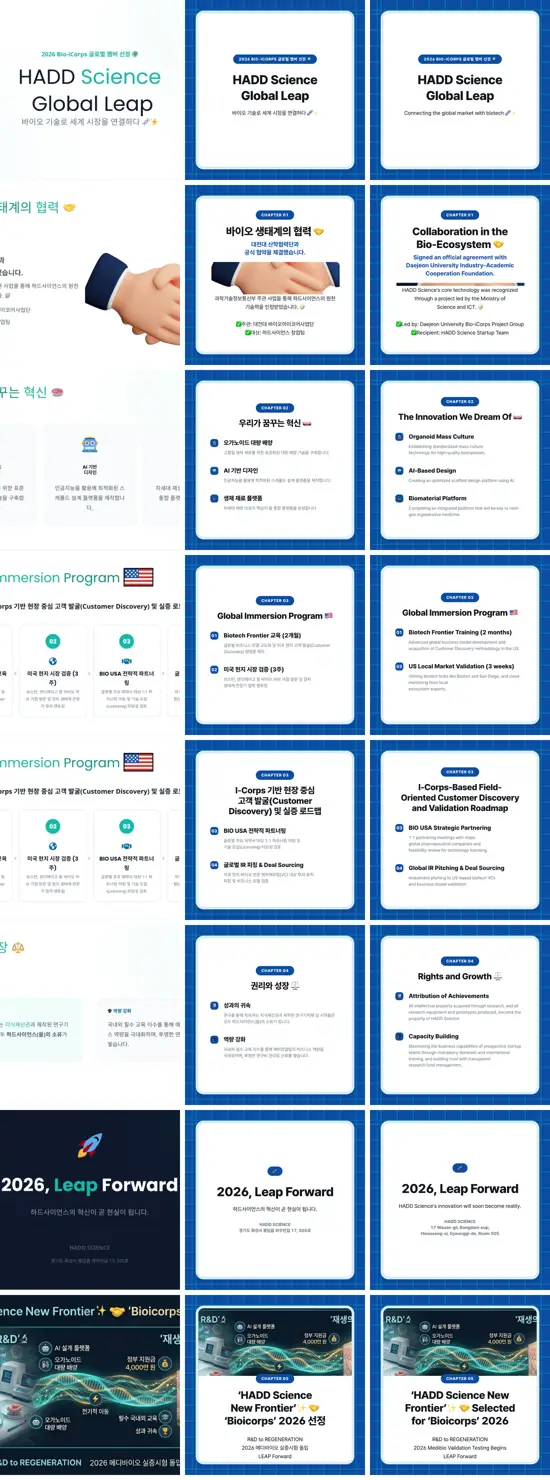
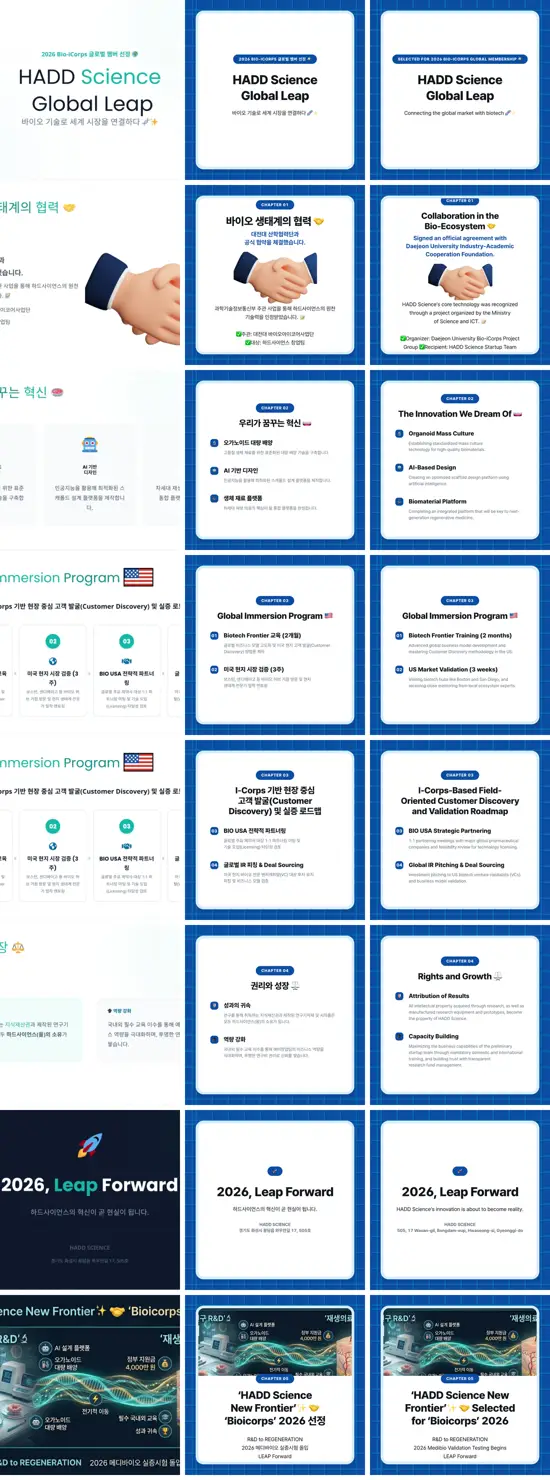
카드뉴스 사진 상자가 글에 눌려 잘리지 않게 — flex: none + 사진 폭 옵션
글이 길면 사진 상자가 세로로 눌리고 cover 가 위아래를 잘라냈다. 넘침 검사도 조용했다.
눌리는 대신 넘치게 두고, 옛 카드처럼 사진을 작게(80·65·50%) 넣을 수 있게 한다.
옛 카드뉴스 10건은 이 규칙으로 다시 구워 반영했다.

Claude-Session: https://claude.ai/code/session_01LRzsbmfMskJQxV3rySTWtA

diff --git a/components/admin/deck-editor.tsx b/components/admin/deck-editor.tsx
@@ -43,6 +43,7 @@ import {
 import {
   CARD_KINDS,
   RATIO_OPTIONS,
+  WIDTH_OPTIONS,
   cardKind,
   cardOutputSrc,
   cardSourceSrc,
@@ -1087,6 +1088,21 @@ function ImageField({
                   label: r.value === fallbackRatio ? `${r.label} · 기본` : r.label,
                 }))}
               />
+            </div>
+          ) : null}
+          {showRatio ? (
+            <div className="grid gap-1.5">
+              <Label htmlFor={`${inputId}-width`}>크기</Label>
+              <NativeSelect
+                id={`${inputId}-width`}
+                value={String(image?.width ?? 100)}
+                onChange={(v) => {
+                  const width = Number(v) as 100 | 80 | 65 | 50
+                  onChange({ ...(image ?? { src: "" }), width: width === 100 ? undefined : width })
+                }}
+                options={WIDTH_OPTIONS.map((w) => ({ value: String(w.value), label: w.label }))}
+              />
+              <p className="text-xs text-muted-foreground">글이 길어 넘치면 사진을 작게.</p>
             </div>
           ) : null}
           <div className="grid gap-1.5">

diff --git a/lib/cardnews.ts b/lib/cardnews.ts
@@ -31,6 +31,13 @@ export const CARD_KINDS: {
   { kind: "quote", label: "한마디", hint: "인용 + 이름. 마지막 장" },
 ]
 
+export const WIDTH_OPTIONS: { value: 100 | 80 | 65 | 50; label: string }[] = [
+  { value: 100, label: "꽉 채움 (기본)" },
+  { value: 80, label: "80%" },
+  { value: 65, label: "65%" },
+  { value: 50, label: "50%" },
+]
+
 export const RATIO_OPTIONS: { value: CardImageRatio; label: string }[] = [
   { value: "16/9", label: "16:9 넓게" },
   { value: "16/10", label: "16:10" },

diff --git a/components/cardnews/card.css b/components/cardnews/card.css
@@ -175,6 +175,10 @@
   border-radius: 24px;
   overflow: hidden;
   background: #eff7fc;
+  /* 사진 상자는 줄어들지 않는다. 글이 길면 사진이 세로로 눌리며 cover 가 위아래를 잘라내는데,
+     그건 넘침보다 나쁘다 — 사진의 내용(현수막 글자 등)이 소리 없이 사라진다. 대신 카드가
+     넘치게 두어 검사(lintCard)에 걸리게 한다. 2026-09-08 실제로 겪었다. */
+  flex: none;
 }
 .cn-root .imgbox img {
   width: 100%;

diff --git a/content/types.ts b/content/types.ts
@@ -139,6 +139,11 @@ export interface CardImage {
   ratio?: CardImageRatio
   /** 초점. CSS object-position 값. `center` · `top` · `50% 30%` */
   pos?: string
+  /**
+   * 상자 폭(카드 안쪽 폭 대비 %). 기본 100. 글이 길어 넘치면 사진을 작게 넣는다 —
+   * 옛 카드뉴스가 그렇게 풀었다. 잘라내는 것보다 낫다.
+   */
+  width?: 100 | 80 | 65 | 50
 }
 
 export type CardStat = { value: string; unit?: string; label: string }

diff --git a/components/cardnews/card-face.tsx b/components/cardnews/card-face.tsx
@@ -140,7 +140,7 @@ function ImgBox({
   return (
     <div
       className={className ? `imgbox ${className}` : "imgbox"}
-      style={{ aspectRatio: ratio }}
+      style={{ aspectRatio: ratio, ...(image.width && image.width < 100 ? { width: `${image.width}%` } : {}) }}
     >
       {/* eslint-disable-next-line @next/next/no-img-element -- 래스터화 대상이라 최적화 불가 */}
       <img

diff --git a/mydocs/working/2026-09-07-cardnews-rebuild.md b/mydocs/working/2026-09-07-cardnews-rebuild.md
@@ -215,3 +215,25 @@ $ pnpm typecheck && pnpm lint && pnpm build
 - 171402558 은 원래 어두운 발표 슬라이드라 카드가 13 → 21 장으로 늘었다. 표는 글자를 그대로 담은 카드 둘로.
 - 자동 줄바꿈 수정은 "마지막 두 낱말을 끌어내린다" 한 가지다. 더 나은 끊기는 편집기에서 사람이 고친다(덱이 저장돼 있다).
 - 옛 사진은 카드 이미지에서 잘라낸 것이라 원본보다 해상도가 낮다(1024 기준).
+
+## 4. 2026-09-08 재실행 — 사진 눌림 발견 · 전수 재작성
+
+사용자가 172288085 카드 3 의 사진이 원본과 다르다고 짚었다(현수막 글자가 잘림). 원인과 대응은
+`mydocs/troubleshootings/vercel-deploy-traps.md` 의 "카드뉴스: 글이 길면 사진이 소리 없이 눌려 잘렸다".
+전수조사 결과 10건 중 9건 · 29장이 같은 상태였고, 사진 폭 옵션과 자동 물러서기를 넣어 10건 전부 다시 돌렸다.
+
+```
+172288085 옛 8 → 새 8 · 수정 9 · 남은 문제 0 · 빠진 원문 0
+172288167 옛 9 → 새 9 · 수정 2 · 0 · 0
+172288285 옛 8 → 새 8 · 수정 2 · 0 · 0
+172090069 옛 7 → 새 7 · 수정 10 · 0 · 0
+172090197 옛 7 → 새 7 · 수정 6 · 0 · 0
+172090251 옛 6 → 새 6 · 수정 11 · 0 · 0
+171780067 옛 9 → 새 10 · 수정 12 · 0 · 0   (카드 5 를 둘로 나눔 — 영문이 한 장에 안 들어감)
+171397323 옛 7 → 새 8 · 수정 7 · 0 · 0
+171327290 옛 8 → 새 11 · 수정 12 · 0 · 0
+171402558 옛 13 → 새 21 · 수정 12 · 0 · 0
+```
+
+실서비스 확인: 172288085 카드 3 의 새 URL(`rebuild-2609080039-ko-03.webp`)이 새 렌더와 픽셀 차 0.2.
+첫 반영에서는 같은 파일 이름 때문에 실제로는 바뀌지 않았었다(픽셀 차 29.0) — 위 문서의 두 번째 항목.

diff --git a/mydocs/orders/20260908.md b/mydocs/orders/20260908.md
@@ -10,4 +10,5 @@ last_verified: 2026-09-08
 | 상태 | 일 |
 |---|---|
 | 완료 | 언어별 썸네일 — 영문 목록·OG 이미지에 영문 카드 첫 장. 재작성한 10건에 소급 적용 |
+| 완료 | 카드뉴스 사진 눌림 원인(사진 상자 flex 축소) · 전수조사 29장 · 사진 폭 옵션 · 10건 재작성 재반영 |
 | 확인 대기 | 실제 계정으로 `/admin` 카드뉴스 저장 → 영문 카드·영문 썸네일 자동 생성 확인 |
